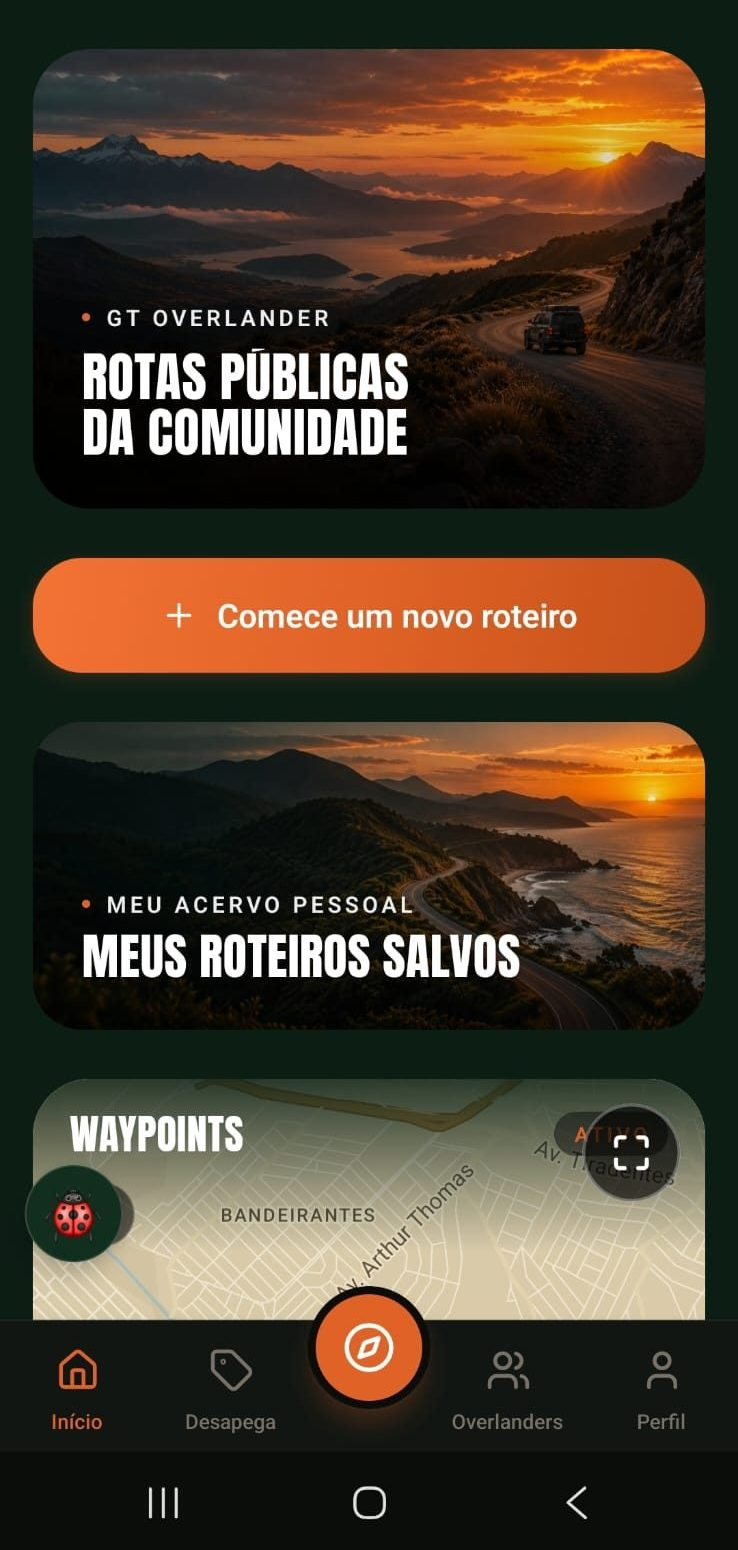
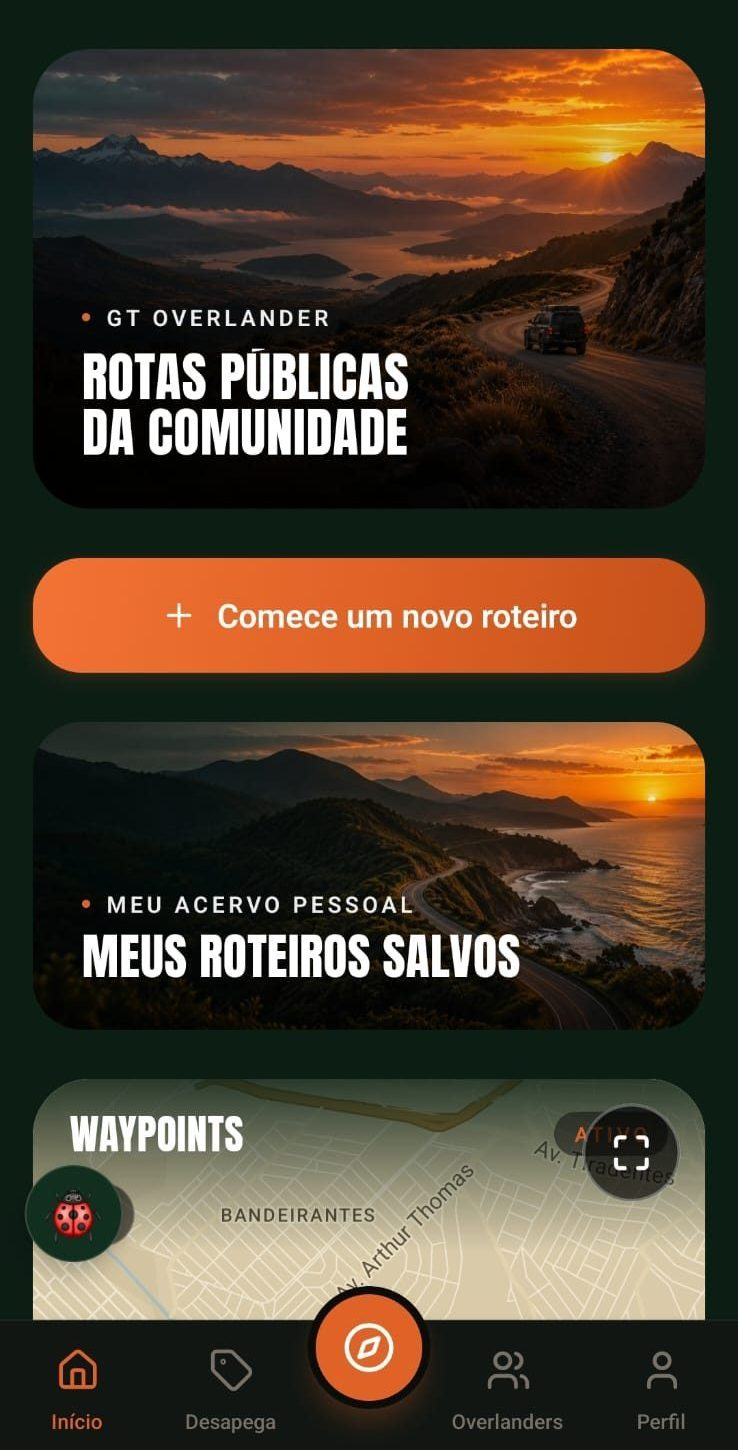
Hero: screenshot sem barras do sistema, dimensao recalculada

diff --git a/components/sections/hero.tsx b/components/sections/hero.tsx
@@ -53,16 +53,18 @@ export async function Hero() {
         </div>
 
         {/* Reserva espaço explícito pra evitar CLS. O screenshot da V2 é
-            738x1550 (já sem a barra de status, cortada no topo), então em
-            max-h-640 a largura é 305. Se trocar a imagem, recalcular aqui. */}
+            738x1450 — já sem a barra de status do Android no topo (ela
+            sobrepunha a faixa de estatísticas) e sem a barra de navegação no
+            rodapé. Em max-h-640 a largura fica 326. Se trocar a imagem,
+            recalcular aqui. */}
         <div className="hidden md:flex justify-center items-center h-[640px]">
           <Image
             src="/images/screenshots/app-home.jpg"
             alt={t('appAlt')}
-            width={305}
+            width={326}
             height={640}
             priority
-            sizes="(max-width: 1280px) 305px, 305px"
+            sizes="(max-width: 1280px) 326px, 326px"
             className="rounded-3xl border border-gt-border shadow-2xl"
           />
         </div>
